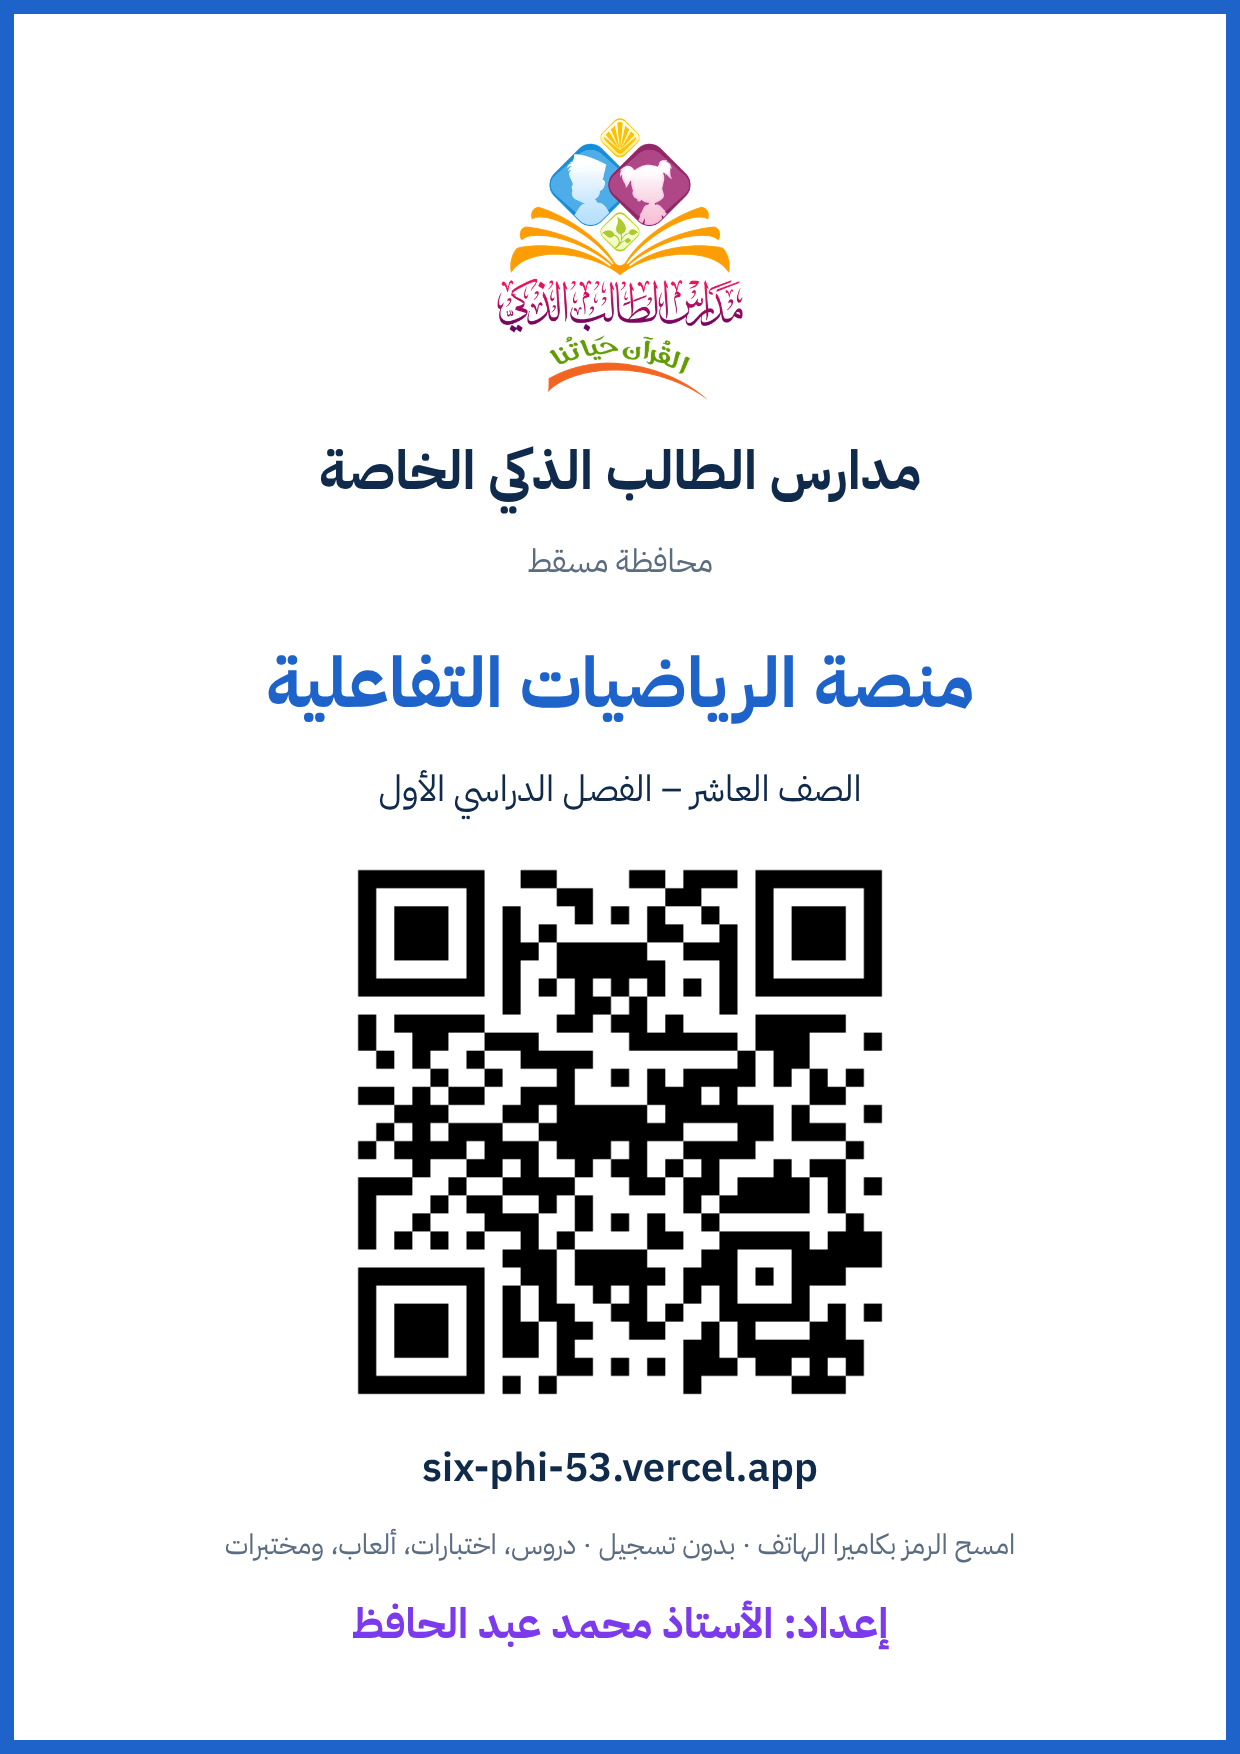
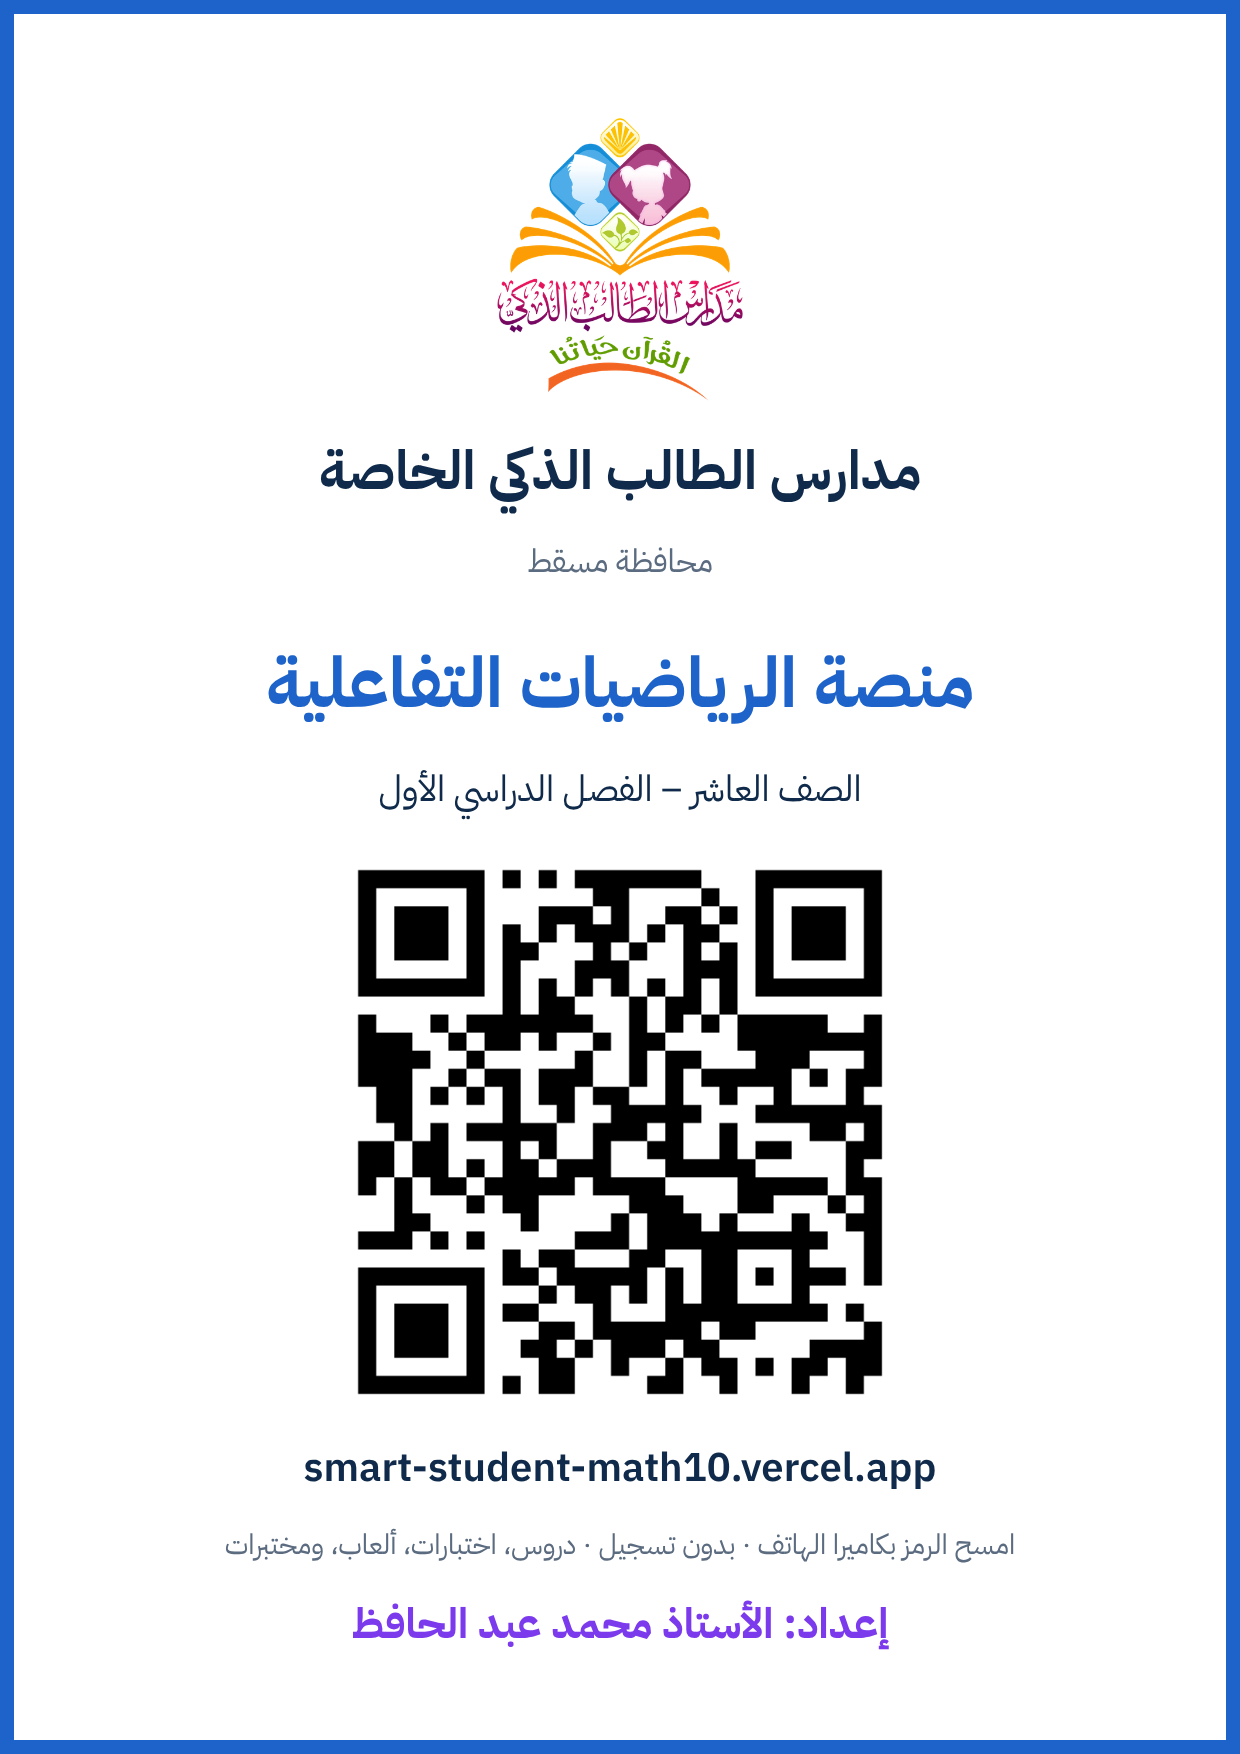
Use new production URL smart-student-math10.vercel.app in README and QR card
Claude-Session: https://claude.ai/code/session_01Tm1RGncfBxK628G3b1KYZn

Changed region(s): [[0.2758, 0.4926, 0.7355, 0.8005], [0.2452, 0.8312, 0.7661, 0.862]]

diff --git a/README.md b/README.md
@@ -90,7 +90,7 @@ alter table kv enable row level security;  -- لا سياسات عامة: الو
 
 ## النشر على Vercel
 
-النسخة المنشورة: https://six-phi-53.vercel.app
+النسخة المنشورة: https://smart-student-math10.vercel.app
 
 1. اربط المستودع بـ Vercel (إطار Next.js يُكتشف تلقائياً).
 2. أضف متغيرات البيئة أعلاه في إعدادات المشروع (بما فيها Supabase لأن نظام ملفات Vercel للقراءة فقط).
